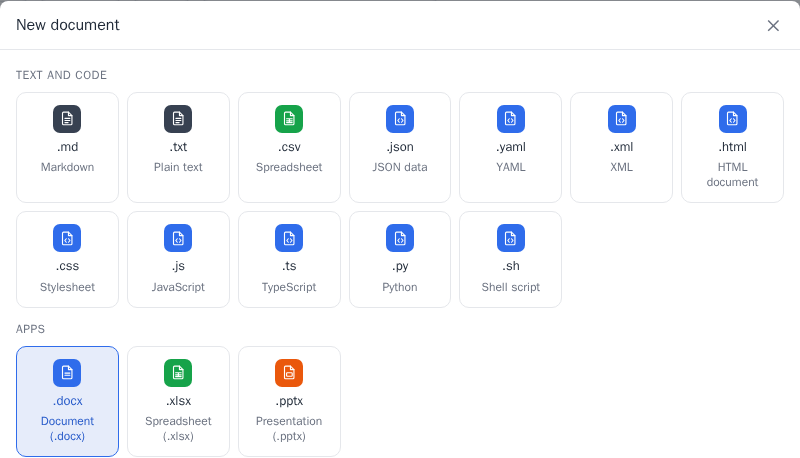
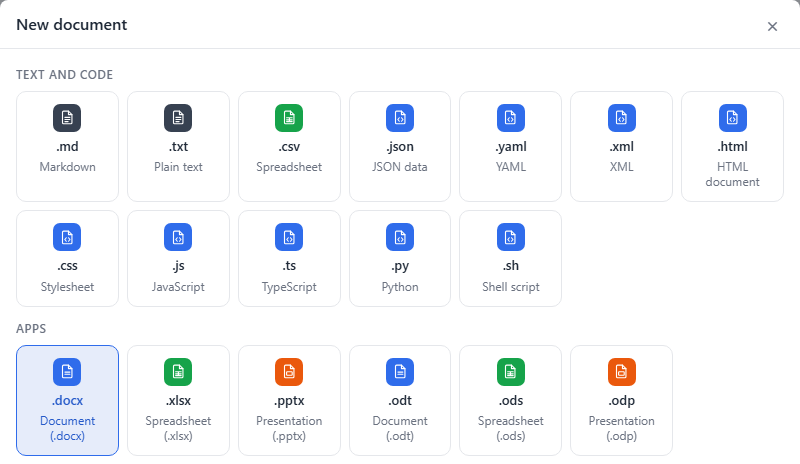
seed(office-editor): the 0.4.0 listing - 45 kinds, the server engine, six New document rows
The description said nothing of the app ran on the server; 0.4.0 brings
filex an office engine (engine.zip) for thumbnails and conversions. The
New document screenshot showed three rows; it has six. Imported on the
reference store as submission 34, index serial 36.

diff --git a/seed/official/filex-office-editor/description.md b/seed/official/filex-office-editor/description.md
@@ -1,12 +1,19 @@
 # Office editor
 
 ONLYOFFICE's editor as a filex app, **without a Document Server**. Word, Excel and PowerPoint
-documents - `.docx`, `.xlsx`, `.pptx` and the OpenDocument `.odt`, `.ods`, `.odp` - open in the
-editor inside filex, in place of the preview.
+documents and their kin - `.docx`, `.xlsx`, `.pptx`, the OpenDocument `.odt`, `.ods`, `.odp`,
+the older `.doc`, `.xls`, `.ppt`, `.rtf`, `.csv`, the templates and the macro-enabled kinds, 45
+in all - open in the editor inside filex, in place of the preview. Since 0.4.0 the app also
+brings filex an **office engine for the server**, so filex draws office thumbnails and converts
+office documents without a Document Server too: an installation can delete its Document Server
+container.
 
 - **Edit and save.** Save (the editor's button, Ctrl+S, or filex's Save) writes a new version of
   the file in its own format; while there are changes it also saves every ten minutes, and filex
-  asks before you leave unsaved work.
+  asks before you leave unsaved work. A format the converter cannot write (`.doc`, `.xls`,
+  `.ppt` and a few more) is saved beside the file as `.docx`, `.xlsx` or `.pptx`; a document
+  somebody changed while it was open keeps their version and gets yours beside it as a conflict
+  copy.
 - **Edit together.** Everyone who has the document open edits the same document and sees the
   others' cursors, locks and changes as they make them, through filex's relay: filex seals what
   they share and puts it in one order, the app holds no key and talks to no server. Someone who may
@@ -14,25 +21,37 @@ editor inside filex, in place of the preview.
 - **Encrypted folders.** A document in an encrypted folder or vault you have unlocked opens too:
   your browser decrypts it for the editor and encrypts the save before it leaves, so the server
   sees only encrypted data. Editing together works there as well.
+- **csv, passwords, spelling, macros.** A csv keeps its own delimiter and encoding when it is
+  saved; a password-protected document opens with its password and stays protected; spelling and
+  hyphenation use the dictionaries of filex's languages, and an administrator adds 43 more with one
+  click; macros run after the editor asks.
 - **Download as and Print.** The File menu's Download as writes DOCX, ODT, RTF, TXT, XLSX, ODS,
-  CSV, PPTX, ODP, their templates, PDF and PDF/A in your browser, and filex hands you the file. Print hands
-  filex a PDF; filex opens the print dialog once you allow it.
-- **New document.** filex's New document dialog gets three rows: a document, a spreadsheet and a
-  presentation.
+  CSV (in every code page of the editor's list), PPTX, ODP, their templates, PDF and PDF/A in your
+  browser, and filex hands you the file. Print hands filex a PDF; filex opens the print dialog
+  once you allow it.
+- **New document.** filex's New document dialog gets six rows: a document, a spreadsheet and a
+  presentation, as OOXML and as OpenDocument.
 - **Your settings stay.** Zoom, units, the ribbon folded or not and the hints you closed are kept
-  between openings. The editor follows filex's light or dark theme and your language.
+  between openings. The editor follows filex's light or dark theme and your language, or the
+  editor language an administrator fixed.
 - **On a phone** the document opens in ONLYOFFICE's phone view to read, and **Edit** opens the
   editor with it.
 
-Nothing of it runs on the filex server. The editor's files come from ONLYOFFICE's official
-Document Server image (ONLYOFFICE Docs 9.4.0), and documents are converted in your browser by
-ONLYOFFICE's converter, x2t, which the project builds from ONLYOFFICE core 9.4.0 to
-WebAssembly. filex serves the app's package and runs it in a sandboxed frame; the app reads and
-saves only the file it was opened with.
+**The office engine.** ONLYOFFICE's converter, x2t, and the editor's own page layout, both
+compiled to WebAssembly, come with the release as `engine.zip`. filex runs them on the server in a
+process of its own, with only the documents it hands them and no network, for office thumbnails
+and for the conversions apps ask for (the Convert app, MCP's `file_convert`). filex prepares the
+engine once after the install, in the background, a few minutes; **Default apps → Office engine**
+shows when it is ready.
 
-Needs filex 0.56 or later; on filex 0.55 the store offers 0.1.1, which edits alone and not in
-encrypted folders. The app's own texts are in English and Turkish; the editor speaks the
-languages ONLYOFFICE ships.
+The editor itself runs in your browser: its files come from ONLYOFFICE's official Document Server
+image (ONLYOFFICE Docs 9.4.0), and documents are converted for it in your browser by the same x2t,
+which the project builds from ONLYOFFICE core 9.4.0. filex serves the app's package and runs it in
+a sandboxed frame; the app reads and saves only the file it was opened with.
+
+Needs filex 0.57 or later; on filex 0.56 the store offers 0.3.1, which edits the six OOXML and
+OpenDocument kinds and brings no engine, and on filex 0.55 0.1.1. The app's own texts are in
+English and Turkish; the editor speaks the languages ONLYOFFICE ships.
 
 Based on ONLYOFFICE Docs by Ascensio System SIA. ONLYOFFICE® and ONLYOFFICE Docs™ are registered
 trademarks or trademarks of Ascensio System SIA; this app is not affiliated with or endorsed by
